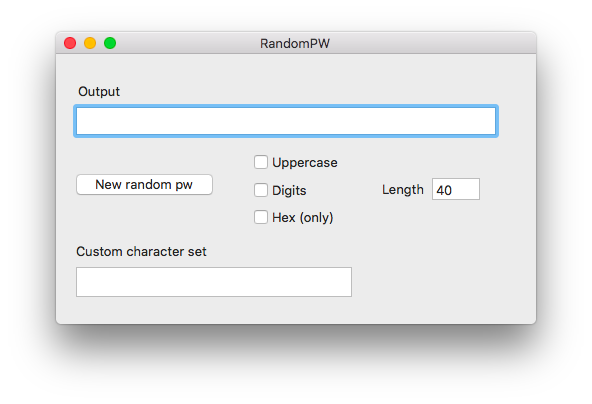
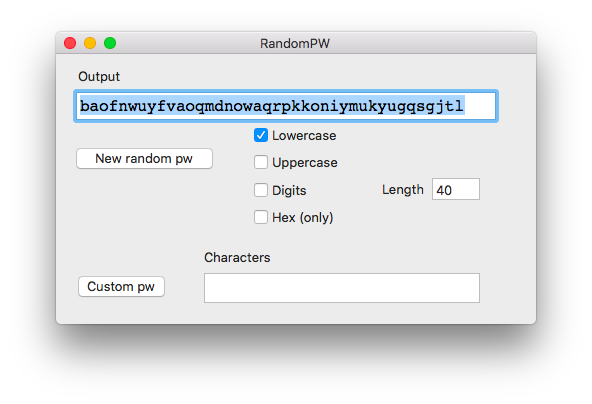
no message

Changed region(s): [[0.1216, 0.1782, 0.8514, 0.4752], [0.1216, 0.5941, 0.6081, 0.7426], [0.3345, 0.7129, 0.3649, 0.7426]]

diff --git a/RandomPW/MainWindowController.swift b/RandomPW/MainWindowController.swift
@@ -3,6 +3,7 @@ import Cocoa
 class MainWindowController: NSWindowController {
     
     @IBOutlet weak var digitsCheckbox: NSButton!
+    @IBOutlet weak var lcCheckbox: NSButton!
     @IBOutlet weak var ucCheckbox: NSButton!
     @IBOutlet weak var hexCheckbox: NSButton!
     
@@ -10,35 +11,61 @@ class MainWindowController: NSWindowController {
     @IBOutlet weak var pwTextField: NSTextField!
     @IBOutlet weak var characterTextField: NSTextField!
     
+    let OFF = NSControl.StateValue.off
+    let ON = NSControl.StateValue.on
+    
     override func windowDidLoad() {
         super.windowDidLoad()
         lengthTextField.doubleValue = 40
         
-        ucCheckbox.state = NSControl.StateValue.off
-        digitsCheckbox.state = NSControl.StateValue.off
-        hexCheckbox.state = NSControl.StateValue.off
+        lcCheckbox.state = ON
+        ucCheckbox.state = OFF
+        digitsCheckbox.state = OFF
+        hexCheckbox.state = OFF
+        
+        characterTextField.stringValue = ""
+        
+        // to deselect pw window
+        let textEditor = window!.fieldEditor(true, for: pwTextField)!
+        let range = NSRange(0..<0)
+        textEditor.selectedRange = range
+    }
+        
+    @IBAction func hex_selected(sender: AnyObject) {
+        lcCheckbox.state = OFF
+        ucCheckbox.state = OFF
+        digitsCheckbox.state = OFF
         characterTextField.stringValue = ""
     }
     
-    @IBAction func hex_selected(sender: AnyObject) {
-        ucCheckbox.state = NSControl.StateValue.off
-        digitsCheckbox.state = NSControl.StateValue.off
-    }
-    
     @IBAction func other_selected(sender: AnyObject) {
-        hexCheckbox.state = NSControl.StateValue.off
+        hexCheckbox.state = OFF
+        characterTextField.stringValue = ""
     }
     
     @IBAction func charTFEdited(sender: AnyObject) {
-        // Swift.print("charTFEdited")
-        ucCheckbox.state = NSControl.StateValue.off
-        digitsCheckbox.state = NSControl.StateValue.off
+        if characterTextField.stringValue.count == 0 {
+            _ = runAlert("Custom character set needed!")
+        }
+        else {
+            lcCheckbox.state = OFF
+            ucCheckbox.state = OFF
+            digitsCheckbox.state = OFF
+            hexCheckbox.state = OFF
+            doIt()
+        }
     }
 
     @IBAction func button_pushed(sender: AnyObject) {
         Swift.print("MWC:  button pushed")
+        characterTextField.stringValue = ""
+        doIt()
+    }
+
+    func doIt() {
         let result: String = helperDoIt()
         Swift.print(result)
         pwTextField.stringValue = result
     }
 }
+

diff --git a/RandomPW/Helper.swift b/RandomPW/Helper.swift
@@ -24,8 +24,10 @@ func helperDoIt() -> String {
     
     let useDigits: Bool = (mwc.digitsCheckbox.state == NSControl.StateValue.on)
     let useUC: Bool = (mwc.ucCheckbox.state == NSControl.StateValue.on)
-    
-    var s = "abcdefghijklmnopqrstuvwxyz"
+    let useLC: Bool = (mwc.lcCheckbox.state == NSControl.StateValue.on)
+
+    var s = ""
+    if useLC     { s = "abcdefghijklmnopqrstuvwxyz" }
     if useUC     { s += "ABCDEFGHIJKLMNOPQRSTUVWXYZ" }
     if useDigits { s += "0123456789" }
     

diff --git a/RandomPW/Alerts.swift b/RandomPW/Alerts.swift
@@ -1,0 +1,19 @@
+import Cocoa
+
+func runAlert(_ s: String, style: NSAlert.Style = .warning) -> Bool {
+    let a: NSAlert = NSAlert()
+    // Swift.print(a.window.frame.origin)
+    
+    a.messageText = s
+    //a.informativeText = text
+    
+    a.alertStyle = style
+    a.addButton(withTitle: "OK")
+    //a.addButtonWithTitle("Cancel")
+    
+    let result = a.runModal()
+    if result == NSApplication.ModalResponse.alertFirstButtonReturn {
+        return true
+    }
+    return false
+}
